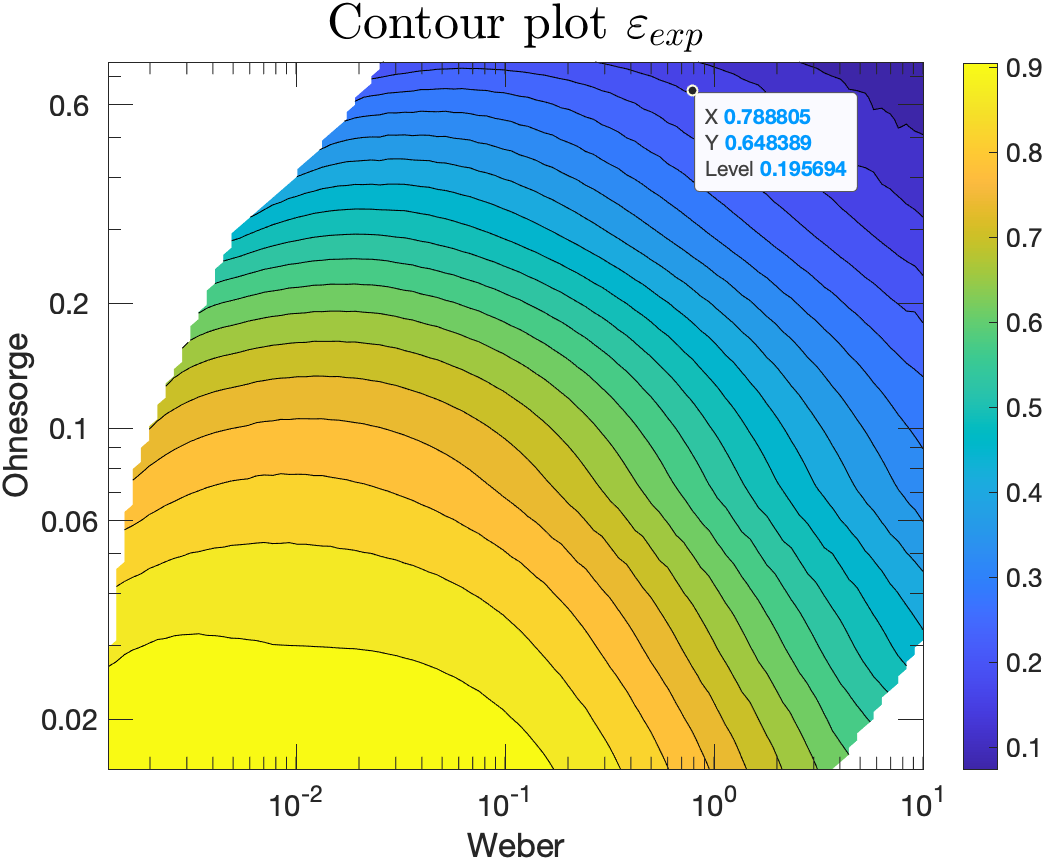
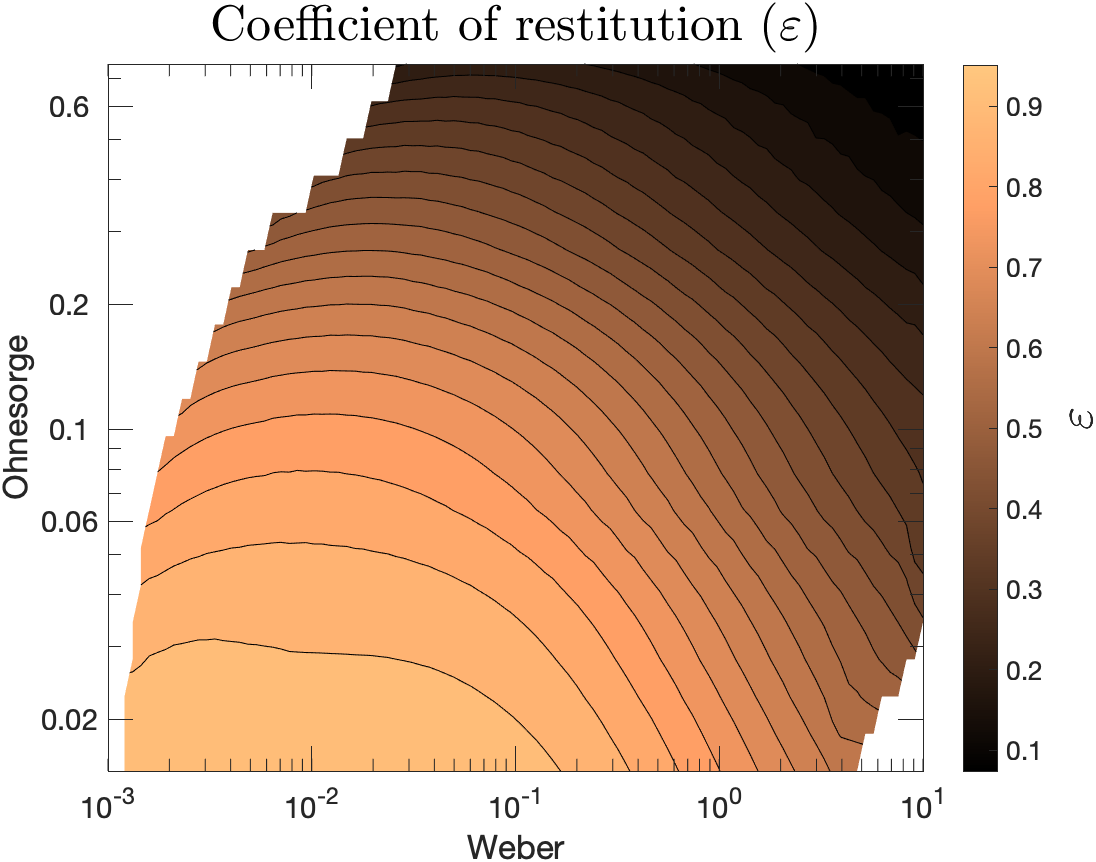
updated colormap to copper

diff --git a/matlab/1_code/parameter_plotter.m b/matlab/1_code/parameter_plotter.m
@@ -18,7 +18,7 @@ sheets = sheetnames(filename);
 expData = readtable(filename, 'Sheet', sheets, 'ReadVariableNames', true, 'HeaderLines', 2);
 sampled_values = @(data, bins, per_bin) reshape(randsample(data, bins*per_bin, true, histcounts(data, linspace(min(data), max(data), bins+1))), [], 1);
 %expData = sortrows(expData, 'We');
-expData = expData(expData.Oh > 0.2 | (mod(1:height(expData), 3)==0)', :);
+expData = expData(expData.Oh > 0.2 | (mod(1:height(expData), 4)==0)', :);
 % Error propagation
 g = 9.81;
 syms hout vin vout r0 ssigma rrho 
@@ -43,7 +43,7 @@ alldata.tic = sqrt(alldata.bond/981 * Ro);
 alldata.ct_adim = 1e-3 * alldata.contact_time_exp_ms./alldata.tic;
 % Plotting contact time
 figure(1); title('Contact time vs We'); set(gcf, 'Position', [750 176 560 420])
-plot_errorbars(expData.We, expData.tc_tic, expData.We_error, expData.tic_error, expData.Oh);
+[ohs, colors] = plot_errorbars(expData.We, expData.tc_tic, expData.We_error, expData.tic_error, expData.Oh);
 set(gca, 'XScale', 'log', 'FontSize', 16); %, 'YScale', 'log', 'FontSize', 14);
 hold on; grid on;
 plotVarVsWeByOh(alldata, "ct_adim", ohs, colors);
@@ -64,123 +64,125 @@ xticklabels({'0.01', '0.1', '1', '10'});
 xlim([1e-3, 10.5]); ylim([0, 1]);
 xlabel('We','Interpreter','latex');
 ylabel('Coefficient of restitution ($\varepsilon$)','Interpreter','latex', 'FontSize',20);
-return
-data = struct();
-close all; cmap = jet(10*length(sheets)); ss = size(cmap, 1);
-for i = 1:numel(sheets)
-    expData = readtable(filename, 'Sheet', sheets{i}, 'ReadVariableNames', true, 'HeaderLines', 2);
-    
-    data.(sheets{i}) = table2struct(expData, 'ToScalar', true);
-    data.(sheets{i}).We = str2double(regexp(sheets{i}, '(?<=\(We\s*=\s*)\S+(?=\s*\))', 'match', 'once'));
 
-    bnc = data.(sheets{i});
-    % Plotting
-    % Plot Contact Time vs Time_s_ (EXPERIMENTAL)
-    figure(1); hold on; set(gcf, 'Position', [734 223 646 451]);
-    color_vector = repmat(bnc.We, size(bnc.Time_s_));
-    idx = ceil(ss*(bnc.We)/4);
-    plot(bnc.Time_s_/t_ic, bnc.ContactRadius_mm_/(10*Ro),'LineWidth', 1, 'DisplayName',"", 'Color', cmap(idx, :));
-    scatter(bnc.Time_s_/t_ic, bnc.ContactRadius_mm_/(10*Ro), 50, cmap(idx, :), 'filled'); %'DisplayName',sprintf("$We=%.2f$", bnc.We));
-    
-    % Plot Contact Time vs Time_s_ (SIMULATIONS)
-    [~, idx2] = min(abs(alldata.weber - bnc.We));  % idx is the index of the closest value
-    file = fullfile(pwd, "..", "2_output", alldata.parent_folder(idx2), alldata.file_name(idx2)); 
-    values = load(file);
-    %alldata = alldata(values.PROBLEM_CONSTANTS.weber == bnc.We, :);
-    if  abs(alldata.weber - bnc.We) > 1e-3
-        disp('couldnt find simulation with value We=', bnc.We);
-    else
-        length_unit = values.length_unit;
-        recorded_conditions = values.recorded_conditions;
-        pixel = 5e-4; %Threshold for experimental contact
-        theta_vector = values.PROBLEM_CONSTANTS.theta_vector;
-        times_vector_adim = values.recorded_times/t_ic;
-        times_simul    = zeros(size(recorded_conditions, 1), 1);
-        max_width_adim      = zeros(size(recorded_conditions, 1), 1);
-        contact_radius_adim = zeros(size(recorded_conditions, 1), 1);
-        for jj = 1:(size(recorded_conditions, 1))
-            adim_deformations = recorded_conditions{jj}.deformation_amplitudes/length_unit;
-            adim_CM = recorded_conditions{jj}.center_of_mass/length_unit;
-            drop_radius = zeta_generator(adim_deformations);
-            drop_radius = @(theta) 1 + drop_radius(theta);
-            drop_height = @(theta) cos(theta) .* drop_radius(theta) + adim_CM;
-                
-            % Max width calculation & spread time of width
-            max_width_adim(jj) = maximum_contact_radius(adim_deformations);
-            % if current_width > max_width
-            %     max_width = current_width; 
-            %     spread_time_width = recorded_times(jj) - touch_time;
-            % end
-            % EXPERIMENTAL max_contact_radius calculation
-            current_contact_points_exp = recorded_conditions{jj}.contact_points;
-            if current_contact_points_exp == 0
-                current_contact_radius_exp = 0;
-            else 
-                kk = 1;
-                theta2 = theta_vector(current_contact_points_exp+kk);
-                while drop_height(theta2) < pixel/length_unit
-                    kk = kk + 1;
-                    theta2 = theta_vector(current_contact_points_exp + kk);
-                end
-                theta1 = theta_vector(current_contact_points_exp + kk - 1);
-                while abs(theta1-theta2) > pi/1e+3
-                    theta_middle = (theta1+theta2)/2;
-                    if drop_height(theta_middle) < pixel/length_unit
-                        theta1 = theta_middle;
-                    else
-                        theta2 = theta_middle;
-                    end
-                end
-                current_contact_radius_exp = sin(theta1) ...
-                    * drop_radius(theta1);
-            end
-            contact_radius_adim(jj) = current_contact_radius_exp;
-            % if current_contact_radius_exp > max_contact_radius_exp
-            %     max_contact_radius_exp = current_contact_radius_exp;
-            %     spread_time_exp = recorded_times(jj) - touch_time;
-            % end
-        end
-        plot(times_vector_adim, contact_radius_adim, '--', 'LineWidth', 2, 'DisplayName',"", 'Color', cmap(idx, :));
-
-    end
-
-    % Plot Maximum Radius vs Time_s_
-    figure(2); hold on; set(gcf, 'Position', [77 224 1800 450]);
-    plot(bnc.Time_s_/t_ic, bnc.MaxRadius_mm_/(10*Ro),'Color', cmap(idx, :), 'LineWidth', 1, 'DisplayName',"");
-    scatter(bnc.Time_s_/t_ic, bnc.MaxRadius_mm_/(10*Ro), 50, cmap(idx, :), 'filled'); %DisplayName',sprintf("$We=%.2f$", bnc.We));
-    plot(times_vector_adim, max_width_adim, '--', 'LineWidth', 2, 'DisplayName',"", 'Color', cmap(idx, :));
-end
-
-figure(1); grid on;
-xlabel('$t/t_{ic}$', 'Interpreter','latex');
-ylabel('Contact Radius $r/R_o$', 'Interpreter','latex');
-title('Contact Radius vs Time');
-%legend('Interpreter','latex');
-colormap jet;  % You can choose different colormaps (e.g., 'parula', 'jet', 'hot', etc.)
-cb = colorbar;  % Show the color scale
-caxis([0 3.58]);
-ylabel(cb, 'We');
-set(gca, 'FontSize', 15);
-h1 = plot(NaN, NaN, 'ko-');  % Dummy plot for first legend entry
-h2 = plot(NaN, NaN, 'k-');  % Dummy plot for second legend entry
-legend([h1, h2], 'Experimental', 'Simulation');
-
-figure(2); grid on;
-xlabel('$t/t_{ic}$', 'Interpreter', ' latex');
-ylabel('Maximum Radius ($r/R_o$)', 'Interpreter', 'latex');
-title('Maximum Radius vs Time');
-%legend('Interpreter','latex');
-colormap jet;  % You can choose different colormaps (e.g., 'parula', 'jet', 'hot', etc.)
-cb = colorbar;  % Show the color scale
-caxis([0 3.58]);
-ylabel(cb, 'We');
-set(gca, 'FontSize', 15);
+%% Extra
+% data = struct();
+% close all; cmap = jet(10*length(sheets)); ss = size(cmap, 1);
+% for i = 1:numel(sheets)
+%     expData = readtable(filename, 'Sheet', sheets{i}, 'ReadVariableNames', true, 'HeaderLines', 2);
+% 
+%     data.(sheets{i}) = table2struct(expData, 'ToScalar', true);
+%     data.(sheets{i}).We = str2double(regexp(sheets{i}, '(?<=\(We\s*=\s*)\S+(?=\s*\))', 'match', 'once'));
+% 
+%     bnc = data.(sheets{i});
+%     % Plotting
+%     % Plot Contact Time vs Time_s_ (EXPERIMENTAL)
+%     figure(1); hold on; set(gcf, 'Position', [734 223 646 451]);
+%     color_vector = repmat(bnc.We, size(bnc.Time_s_));
+%     idx = ceil(ss*(bnc.We)/4);
+%     plot(bnc.Time_s_/t_ic, bnc.ContactRadius_mm_/(10*Ro),'LineWidth', 1, 'DisplayName',"", 'Color', cmap(idx, :));
+%     scatter(bnc.Time_s_/t_ic, bnc.ContactRadius_mm_/(10*Ro), 50, cmap(idx, :), 'filled'); %'DisplayName',sprintf("$We=%.2f$", bnc.We));
+% 
+%     % Plot Contact Time vs Time_s_ (SIMULATIONS)
+%     [~, idx2] = min(abs(alldata.weber - bnc.We));  % idx is the index of the closest value
+%     file = fullfile(pwd, "..", "2_output", alldata.parent_folder(idx2), alldata.file_name(idx2)); 
+%     values = load(file);
+%     %alldata = alldata(values.PROBLEM_CONSTANTS.weber == bnc.We, :);
+%     if  abs(alldata.weber - bnc.We) > 1e-3
+%         disp('couldnt find simulation with value We=', bnc.We);
+%     else
+%         length_unit = values.length_unit;
+%         recorded_conditions = values.recorded_conditions;
+%         pixel = 5e-4; %Threshold for experimental contact
+%         theta_vector = values.PROBLEM_CONSTANTS.theta_vector;
+%         times_vector_adim = values.recorded_times/t_ic;
+%         times_simul    = zeros(size(recorded_conditions, 1), 1);
+%         max_width_adim      = zeros(size(recorded_conditions, 1), 1);
+%         contact_radius_adim = zeros(size(recorded_conditions, 1), 1);
+%         for jj = 1:(size(recorded_conditions, 1))
+%             adim_deformations = recorded_conditions{jj}.deformation_amplitudes/length_unit;
+%             adim_CM = recorded_conditions{jj}.center_of_mass/length_unit;
+%             drop_radius = zeta_generator(adim_deformations);
+%             drop_radius = @(theta) 1 + drop_radius(theta);
+%             drop_height = @(theta) cos(theta) .* drop_radius(theta) + adim_CM;
+% 
+%             % Max width calculation & spread time of width
+%             max_width_adim(jj) = maximum_contact_radius(adim_deformations);
+%             % if current_width > max_width
+%             %     max_width = current_width; 
+%             %     spread_time_width = recorded_times(jj) - touch_time;
+%             % end
+%             % EXPERIMENTAL max_contact_radius calculation
+%             current_contact_points_exp = recorded_conditions{jj}.contact_points;
+%             if current_contact_points_exp == 0
+%                 current_contact_radius_exp = 0;
+%             else 
+%                 kk = 1;
+%                 theta2 = theta_vector(current_contact_points_exp+kk);
+%                 while drop_height(theta2) < pixel/length_unit
+%                     kk = kk + 1;
+%                     theta2 = theta_vector(current_contact_points_exp + kk);
+%                 end
+%                 theta1 = theta_vector(current_contact_points_exp + kk - 1);
+%                 while abs(theta1-theta2) > pi/1e+3
+%                     theta_middle = (theta1+theta2)/2;
+%                     if drop_height(theta_middle) < pixel/length_unit
+%                         theta1 = theta_middle;
+%                     else
+%                         theta2 = theta_middle;
+%                     end
+%                 end
+%                 current_contact_radius_exp = sin(theta1) ...
+%                     * drop_radius(theta1);
+%             end
+%             contact_radius_adim(jj) = current_contact_radius_exp;
+%             % if current_contact_radius_exp > max_contact_radius_exp
+%             %     max_contact_radius_exp = current_contact_radius_exp;
+%             %     spread_time_exp = recorded_times(jj) - touch_time;
+%             % end
+%         end
+%         plot(times_vector_adim, contact_radius_adim, '--', 'LineWidth', 2, 'DisplayName',"", 'Color', cmap(idx, :));
+% 
+%     end
+% 
+%     % Plot Maximum Radius vs Time_s_
+%     figure(2); hold on; set(gcf, 'Position', [77 224 1800 450]);
+%     plot(bnc.Time_s_/t_ic, bnc.MaxRadius_mm_/(10*Ro),'Color', cmap(idx, :), 'LineWidth', 1, 'DisplayName',"");
+%     scatter(bnc.Time_s_/t_ic, bnc.MaxRadius_mm_/(10*Ro), 50, cmap(idx, :), 'filled'); %DisplayName',sprintf("$We=%.2f$", bnc.We));
+%     plot(times_vector_adim, max_width_adim, '--', 'LineWidth', 2, 'DisplayName',"", 'Color', cmap(idx, :));
+% end
+% 
+% figure(1); grid on;
+% xlabel('$t/t_{ic}$', 'Interpreter','latex');
+% ylabel('Contact Radius $r/R_o$', 'Interpreter','latex');
+% title('Contact Radius vs Time');
+% %legend('Interpreter','latex');
+% colormap jet;  % You can choose different colormaps (e.g., 'parula', 'jet', 'hot', etc.)
+% cb = colorbar;  % Show the color scale
+% caxis([0 3.58]);
+% ylabel(cb, 'We');
+% set(gca, 'FontSize', 15);
+% h1 = plot(NaN, NaN, 'ko-');  % Dummy plot for first legend entry
+% h2 = plot(NaN, NaN, 'k-');  % Dummy plot for second legend entry
+% legend([h1, h2], 'Experimental', 'Simulation');
+% 
+% figure(2); grid on;
+% xlabel('$t/t_{ic}$', 'Interpreter', ' latex');
+% ylabel('Maximum Radius ($r/R_o$)', 'Interpreter', 'latex');
+% title('Maximum Radius vs Time');
+% %legend('Interpreter','latex');
+% colormap jet;  % You can choose different colormaps (e.g., 'parula', 'jet', 'hot', etc.)
+% cb = colorbar;  % Show the color scale
+% caxis([0 3.58]);
+% ylabel(cb, 'We');
+% set(gca, 'FontSize', 15);
 
 %filtered_data = rmfield(data, fieldnames(data(cellfun(@(f) ~contains(f, 'Bounce'), fieldnames(data))))');
 
 
 %x = regexp(str, '(?<=\(We\s*=\s*)\S+(?=\s*\))', 'match', 'once');
 
+%% Aux functions
 function sigma_f_func = error_prop(expr, variables)
     % Create symbolic variables for uncertainties
     uncertainties = sym("s" + string(variables));
@@ -212,8 +214,8 @@ function [zs, unique_colors] = plot_errorbars(x, y, ex, ey, z)
     %   plot_errorbars([1, 2, 3], [2, 3, 1], [0.1, 0.2, 0.1], [0.2, 0.1, 0.2], [10, 20, 30]);
 
     % Create scatter plot
-    scatter(x, y, 50, z, 'filled'); % Size 100, color by z
-    colormap("winter"); % Choose a colormap
+    scatter(x, y, 20, z, 'filled'); % Size 100, color by z
+    colormap("copper"); % Choose a colormap
     c = colorbar; % Add a colorbar
     ylabel(c, 'Oh');
     hold on;

diff --git a/matlab/1_code/contour_maker.m b/matlab/1_code/contour_maker.m
@@ -14,7 +14,7 @@ output_data = data.coef_rest_exp;
 bond = data.bond;
 
 % Remove rows where contact_time_ms has NaN values
-valid_indices = (~isnan(output_data) & ohnesorge >= 0 & bond == 0);
+valid_indices = (~isnan(output_data) & ohnesorge >= 0 & abs(bond - 0.0189) < 1e-3);
 weber = weber(valid_indices); 
 ohnesorge = ohnesorge(valid_indices);
 ohnesorge(ohnesorge == 0) = 1e-9;
@@ -38,7 +38,7 @@ ylim([0.015, max(ohnesorge)])
 set(gca, 'YTick', yticks, 'YTickLabel', yticks);  % Apply linear tick labels
 % Customize x-axis tick appearance
 set(gca, 'TickDir', 'in', 'TickLength', [0.03, 0.01]);  % Increase tick length on x-axis
-
+colormap("copper"); % Choose a colormap
 c = colorbar;
 ylabel(c, '$\varepsilon$', 'Interpreter','latex', 'FontSize', 24);
 
